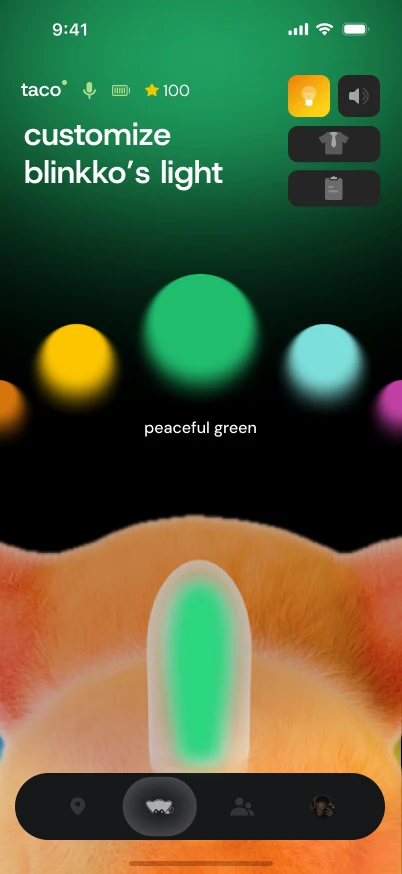
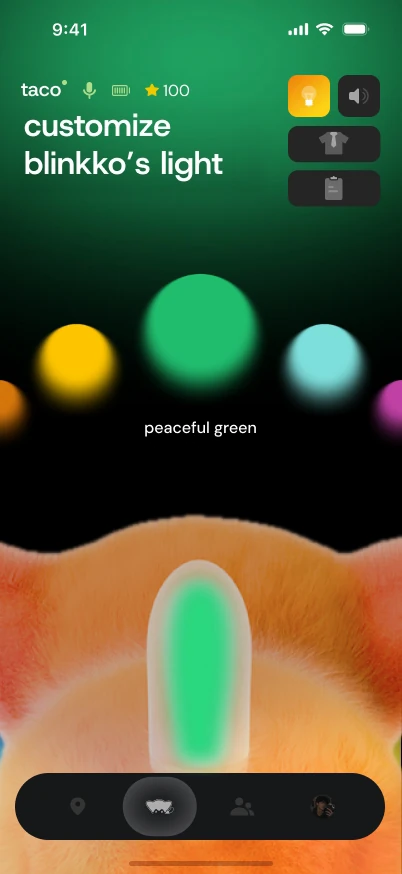
Blinkko: clearer City Explore, chat screens, Pet growth under Home
City Explore runs as one tapped path (post a Glow, then a place, go,
check in). Friend loop starts from Bump, goes straight into the chat
and adds sharing, invites and reactions, plus add-by-ID. Pet growth
sits under Homepage. Light and volume titles moved up to line up
with the home greeting.

Changed region(s): [[0.0597, 0.1236, 0.5672, 0.2162]]

diff --git a/projects/blinkko/index.html b/projects/blinkko/index.html
@@ -437,6 +437,10 @@
             line-height: 1.55;
         }
 
+        .app-copy p:not(.kicker) + p {
+            margin-top: 12px;
+        }
+
         .note-grid span {
             font-size: 13px;
             opacity: 0.62;
@@ -2292,7 +2296,7 @@
 
                 <div class="note">
                     <p class="kicker">Five loops</p>
-                    <p>Onboarding, Homepage, Friend loop, City Explore, Pet growth — in that order. Screens below are the landed UI, autoplaying; tap to step.</p>
+                    <p>Onboarding, Homepage (where Pet growth lives), Friend loop, City Explore — in that order. Screens below are the landed UI, autoplaying; tap to step.</p>
                 </div>
 
                 <div class="app-stage" id="app-ui">
@@ -2506,82 +2510,23 @@
 
                     <div class="app-copy">
                         <p class="kicker">Homepage</p>
-                        <p>Hallway greetings from the App — “sup, kai”, “yo, kai”. Light and volume open as overlays on that same character, not separate settings pages.</p>
+                        <p>Home is where the companion lives. Hallway greetings from the App — “sup, kai”, “yo, kai”. Light and volume open as overlays on that same character, not separate settings pages.</p>
+                        <p>It also grows here, in two places: the Lumi shop for outfits (preview, spend, confirm, owned), and the monthly recap, where the tags from your month drop onto the city.</p>
                     </div>
                     <div class="proto">
                         <button class="proto-phone" type="button" aria-label="Step home prototype">
                             <span class="proto-stage">
                                 <img loading="lazy" decoding="async" class="is-on" src="ui-home-v3.png" alt="Blinkko home">
-                                <img loading="lazy" decoding="async" src="ui-lights-opt.webp?v=3" alt="Blinkko lights">
-                                <img loading="lazy" decoding="async" src="ui-volume.png?v=3" alt="Blinkko volume">
+                                <img loading="lazy" decoding="async" src="ui-lights-opt.webp?v=4" alt="Blinkko lights">
+                                <img loading="lazy" decoding="async" src="ui-volume.png?v=4" alt="Blinkko volume">
                             </span>
                         </button>
                         <p class="proto-hint">Home → light overlay → volume overlay</p>
                         <div class="phone-row proto-strip">
                             <div class="phone-stage is-current"><div class="phone-frame"><img loading="lazy" decoding="async" src="ui-home-v3.png" alt=""></div></div>
-                            <div class="phone-stage"><div class="phone-frame"><img loading="lazy" decoding="async" src="ui-lights-opt.webp?v=3" alt=""></div></div>
-                            <div class="phone-stage"><div class="phone-frame"><img loading="lazy" decoding="async" src="ui-volume.png?v=3" alt=""></div></div>
+                            <div class="phone-stage"><div class="phone-frame"><img loading="lazy" decoding="async" src="ui-lights-opt.webp?v=4" alt=""></div></div>
+                            <div class="phone-stage"><div class="phone-frame"><img loading="lazy" decoding="async" src="ui-volume.png?v=4" alt=""></div></div>
                         </div>
-                    </div>
-
-                    <div class="app-copy">
-                        <p class="kicker">Friend loop</p>
-                        <p>Chats, Send Glow, then hardware Bump: two devices meet, “a new encounter,” then the contact sheet.</p>
-                    </div>
-                    <div class="proto">
-                        <button class="proto-phone" type="button" aria-label="Step friends prototype">
-                            <span class="proto-stage">
-                                <img loading="lazy" decoding="async" class="is-on" src="app-friends-opt.webp" alt="Blinkko chats">
-                                <img loading="lazy" decoding="async" src="ui-glow.png" alt="Blinkko send glow">
-                                <div class="encounter proto-scene" data-dwell="5200" aria-label="Bump to connect, a new encounter">
-                                <img loading="lazy" decoding="async" class="encounter-home" src="ui-home.png" alt="">
-                                <div class="encounter-backdrop"></div>
-                                <img loading="lazy" decoding="async" class="encounter-glow" src="app-bump-glow.png" alt="">
-                                <img loading="lazy" decoding="async" class="encounter-head" src="app-bump-head.png" alt="">
-                                <div class="encounter-pet"><img loading="lazy" decoding="async" src="app-bump-pet-opt.webp" alt=""></div>
-                                <p class="encounter-copy">a new encounter.</p>
-                                <div class="encounter-sheet">
-                                    <span class="encounter-sheet-grab"></span>
-                                    <img loading="lazy" decoding="async" class="encounter-sheet-pet" src="app-bump-sheet-pet-opt.webp" alt="">
-                                    <p class="encounter-sheet-name">mochi</p>
-                                    <p class="encounter-sheet-user">bailey ›</p>
-                                    <p class="encounter-sheet-cta">chat now !</p>
-                                    <p class="encounter-sheet-later">maybe later</p>
-                                </div>
-                                </div>
-                            </span>
-                        </button>
-                        <p class="proto-hint">Chats → Send Glow → Bump</p>
-                        <div class="phone-row proto-strip">
-                            <div class="phone-stage is-current"><div class="phone-frame"><img loading="lazy" decoding="async" src="app-friends-opt.webp" alt=""></div></div>
-                            <div class="phone-stage"><div class="phone-frame"><img loading="lazy" decoding="async" src="ui-glow.png" alt=""></div></div>
-                            <div class="phone-stage"><div class="phone-frame"><img loading="lazy" decoding="async" src="ui-bump-opt.webp" alt=""></div></div>
-                        </div>
-                    </div>
-
-                    <div class="app-copy">
-                        <p class="kicker">City Explore</p>
-                        <p>The map tab: discovery, events in town, Glow create, posts, and phone check-in. Everything sits on one map, not a second app.</p>
-                    </div>
-                    <div class="proto">
-                        <button class="proto-phone" type="button" aria-label="Step city prototype">
-                            <span class="proto-stage">
-                                <img loading="lazy" decoding="async" class="is-on" src="app-map-opt.webp" alt="Blinkko city map">
-                                <img loading="lazy" decoding="async" src="app-events-opt.webp?v=2" alt="Blinkko events in town">
-                                <img loading="lazy" decoding="async" src="app-glow-create-opt.webp" alt="Blinkko create glow">
-                            </span>
-                        </button>
-                        <p class="proto-hint">Map → events → create Glow</p>
-                        <div class="phone-row proto-strip">
-                            <div class="phone-stage is-current"><div class="phone-frame"><img loading="lazy" decoding="async" src="app-map-opt.webp" alt=""></div></div>
-                            <div class="phone-stage"><div class="phone-frame"><img loading="lazy" decoding="async" src="app-events-opt.webp?v=2" alt=""></div></div>
-                            <div class="phone-stage"><div class="phone-frame"><img loading="lazy" decoding="async" src="app-glow-create-opt.webp" alt=""></div></div>
-                        </div>
-                    </div>
-
-                    <div class="app-copy">
-                        <p class="kicker">Pet growth</p>
-                        <p>The companion grows in the App in two places. The Lumi shop for outfits: preview, spend, confirm, owned. And the monthly recap, where the tags from your month drop onto the city.</p>
                     </div>
                     <div class="proto">
                         <button class="proto-phone" type="button" aria-label="Step closet prototype">
@@ -2626,6 +2571,92 @@
                         <div class="phone-row proto-strip">
                             <div class="phone-stage is-current"><div class="phone-frame"><img loading="lazy" decoding="async" src="app-report-intro.png?v=3" alt=""></div></div>
                             <div class="phone-stage"><div class="phone-frame"><img loading="lazy" decoding="async" src="ui-monthly-opt.webp" alt=""></div></div>
+                        </div>
+                    </div>
+
+                    <div class="app-copy">
+                        <p class="kicker">Friend loop</p>
+                        <p>With the hardware, a Bump is how you become friends. When two devices meet, it is “a new encounter” and you are friends at once, with no request to send or accept; “chat now” opens the chat straight away. In the chat, plans get made: anything from the map can be dropped in (a place, a Glow, an event), an event arrives as an invite you accept or decline in place, and a long-press replies to a message or reacts with a Blinkko sticker. From a friend’s page, Send Glow lights up the tail on their device.</p>
+                        <p>Without a device, friends are added the usual way: search a user ID and send a request. The invitation list shows where each request came from (search, an event, a Glow).</p>
+                    </div>
+                    <div class="proto">
+                        <button class="proto-phone" type="button" aria-label="Step friends prototype">
+                            <span class="proto-stage">
+                                <div class="encounter proto-scene is-on is-live" data-dwell="5200" aria-label="Bump to connect, a new encounter">
+                                <img loading="lazy" decoding="async" class="encounter-home" src="ui-home.png" alt="">
+                                <div class="encounter-backdrop"></div>
+                                <img loading="lazy" decoding="async" class="encounter-glow" src="app-bump-glow.png" alt="">
+                                <img loading="lazy" decoding="async" class="encounter-head" src="app-bump-head.png" alt="">
+                                <div class="encounter-pet"><img loading="lazy" decoding="async" src="app-bump-pet-opt.webp" alt=""></div>
+                                <p class="encounter-copy">a new encounter.</p>
+                                <div class="encounter-sheet">
+                                    <span class="encounter-sheet-grab"></span>
+                                    <img loading="lazy" decoding="async" class="encounter-sheet-pet" src="app-bump-sheet-pet-opt.webp" alt="">
+                                    <p class="encounter-sheet-name">mochi</p>
+                                    <p class="encounter-sheet-user">bailey ›</p>
+                                    <p class="encounter-sheet-cta">chat now !</p>
+                                    <p class="encounter-sheet-later">maybe later</p>
+                                </div>
+                                </div>
+                                <img loading="lazy" decoding="async" src="chat/share-place.webp" alt="Chat: a shared place card">
+                                <img loading="lazy" decoding="async" src="chat/share-glow.webp" alt="Chat: a shared Glow">
+                                <img loading="lazy" decoding="async" src="chat/invite.webp" alt="Chat: an event invite with accept or decline">
+                                <img loading="lazy" decoding="async" src="chat/invite-accepted.webp" alt="Chat: invite accepted">
+                                <img loading="lazy" decoding="async" src="chat/react.webp" alt="Chat: long-press a message to reply or react">
+                                <img loading="lazy" decoding="async" src="ui-glow.png" alt="Blinkko send glow">
+                            </span>
+                        </button>
+                        <p class="proto-hint">Bump: you are friends → chat now → share a place → share a Glow → event invite → accepted → react → Send Glow</p>
+                        <div class="phone-row proto-strip">
+                            <div class="phone-stage is-current"><div class="phone-frame"><img loading="lazy" decoding="async" src="ui-bump-opt.webp" alt=""></div></div>
+                            <div class="phone-stage"><div class="phone-frame"><img loading="lazy" decoding="async" src="chat/share-place.webp" alt=""></div></div>
+                            <div class="phone-stage"><div class="phone-frame"><img loading="lazy" decoding="async" src="chat/share-glow.webp" alt=""></div></div>
+                            <div class="phone-stage"><div class="phone-frame"><img loading="lazy" decoding="async" src="chat/invite.webp" alt=""></div></div>
+                            <div class="phone-stage"><div class="phone-frame"><img loading="lazy" decoding="async" src="chat/invite-accepted.webp" alt=""></div></div>
+                            <div class="phone-stage"><div class="phone-frame"><img loading="lazy" decoding="async" src="chat/react.webp" alt=""></div></div>
+                            <div class="phone-stage"><div class="phone-frame"><img loading="lazy" decoding="async" src="ui-glow.png" alt=""></div></div>
+                        </div>
+                    </div>
+
+                    <div class="proto">
+                        <button class="proto-phone" type="button" aria-label="Step add-friend prototype">
+                            <span class="proto-stage">
+                                <img loading="lazy" decoding="async" class="is-on" src="chat/add-search.webp" alt="Add friends: search a user ID">
+                                <img loading="lazy" decoding="async" src="chat/add-sent.webp" alt="Request sent">
+                                <img loading="lazy" decoding="async" src="chat/add-invites.webp" alt="Invitations, each showing where the request came from">
+                            </span>
+                        </button>
+                        <p class="proto-hint">Without a device: search a user ID → request sent → they accept from Invitations</p>
+                        <div class="phone-row proto-strip">
+                            <div class="phone-stage is-current"><div class="phone-frame"><img loading="lazy" decoding="async" src="chat/add-search.webp" alt=""></div></div>
+                            <div class="phone-stage"><div class="phone-frame"><img loading="lazy" decoding="async" src="chat/add-sent.webp" alt=""></div></div>
+                            <div class="phone-stage"><div class="phone-frame"><img loading="lazy" decoding="async" src="chat/add-invites.webp" alt=""></div></div>
+                        </div>
+                    </div>
+
+                    <div class="app-copy">
+                        <p class="kicker">City Explore</p>
+                        <p>The map tab. Glows (short posts left at a place), places, friends and events are all pins on one map, and every action starts by tapping one. Tap + to leave a Glow at the place you are, or tap a place to see the Glows and events left there, walk over and check in. Events are reached the same way, from the events card or a place’s Events tab.</p>
+                    </div>
+                    <div class="proto">
+                        <button class="proto-phone" type="button" aria-label="Step city prototype">
+                            <span class="proto-stage">
+                                <img loading="lazy" decoding="async" class="is-on" src="city/map.webp" alt="City map with Glows, friends and places">
+                                <img loading="lazy" decoding="async" src="city/glow-filled.webp" alt="Create Glow: photos, tag, public or private">
+                                <img loading="lazy" decoding="async" src="city/glow-posted.webp" alt="Glow posted">
+                                <img loading="lazy" decoding="async" src="city/place.webp" alt="The place sheet over the map">
+                                <img loading="lazy" decoding="async" src="city/on-my-way.webp" alt="On my way: route to the place">
+                                <img loading="lazy" decoding="async" src="city/check-in.webp" alt="Check-in on arrival">
+                            </span>
+                        </button>
+                        <p class="proto-hint">Map → tap + → post a Glow → tap a place → go → check in</p>
+                        <div class="phone-row proto-strip">
+                            <div class="phone-stage is-current"><div class="phone-frame"><img loading="lazy" decoding="async" src="city/map.webp" alt=""></div></div>
+                            <div class="phone-stage"><div class="phone-frame"><img loading="lazy" decoding="async" src="city/glow-filled.webp" alt=""></div></div>
+                            <div class="phone-stage"><div class="phone-frame"><img loading="lazy" decoding="async" src="city/glow-posted.webp" alt=""></div></div>
+                            <div class="phone-stage"><div class="phone-frame"><img loading="lazy" decoding="async" src="city/place.webp" alt=""></div></div>
+                            <div class="phone-stage"><div class="phone-frame"><img loading="lazy" decoding="async" src="city/on-my-way.webp" alt=""></div></div>
+                            <div class="phone-stage"><div class="phone-frame"><img loading="lazy" decoding="async" src="city/check-in.webp" alt=""></div></div>
                         </div>
                     </div>
                 </div>
@@ -2709,7 +2740,7 @@
                         <text class="loop-title" x="800" y="458" text-anchor="middle"><tspan class="loop-no">03</tspan>  Understand</text>
                         <text class="loop-sub" x="800" y="477" text-anchor="middle">Place, people and events</text>
 
-                        <image href="ui-lights-opt.webp?v=3" x="420" y="310" width="120" height="120" preserveAspectRatio="xMidYMid slice" clip-path="url(#loop-c4)"/>
+                        <image href="ui-lights-opt.webp?v=4" x="420" y="310" width="120" height="120" preserveAspectRatio="xMidYMid slice" clip-path="url(#loop-c4)"/>
                         <circle class="loop-ring" cx="480" cy="370" r="60"/>
                         <text class="loop-title" x="480" y="458" text-anchor="middle"><tspan class="loop-no">04</tspan>  Respond</text>
                         <text class="loop-sub" x="480" y="477" text-anchor="middle">The App sets light, haptics and the tail</text>
